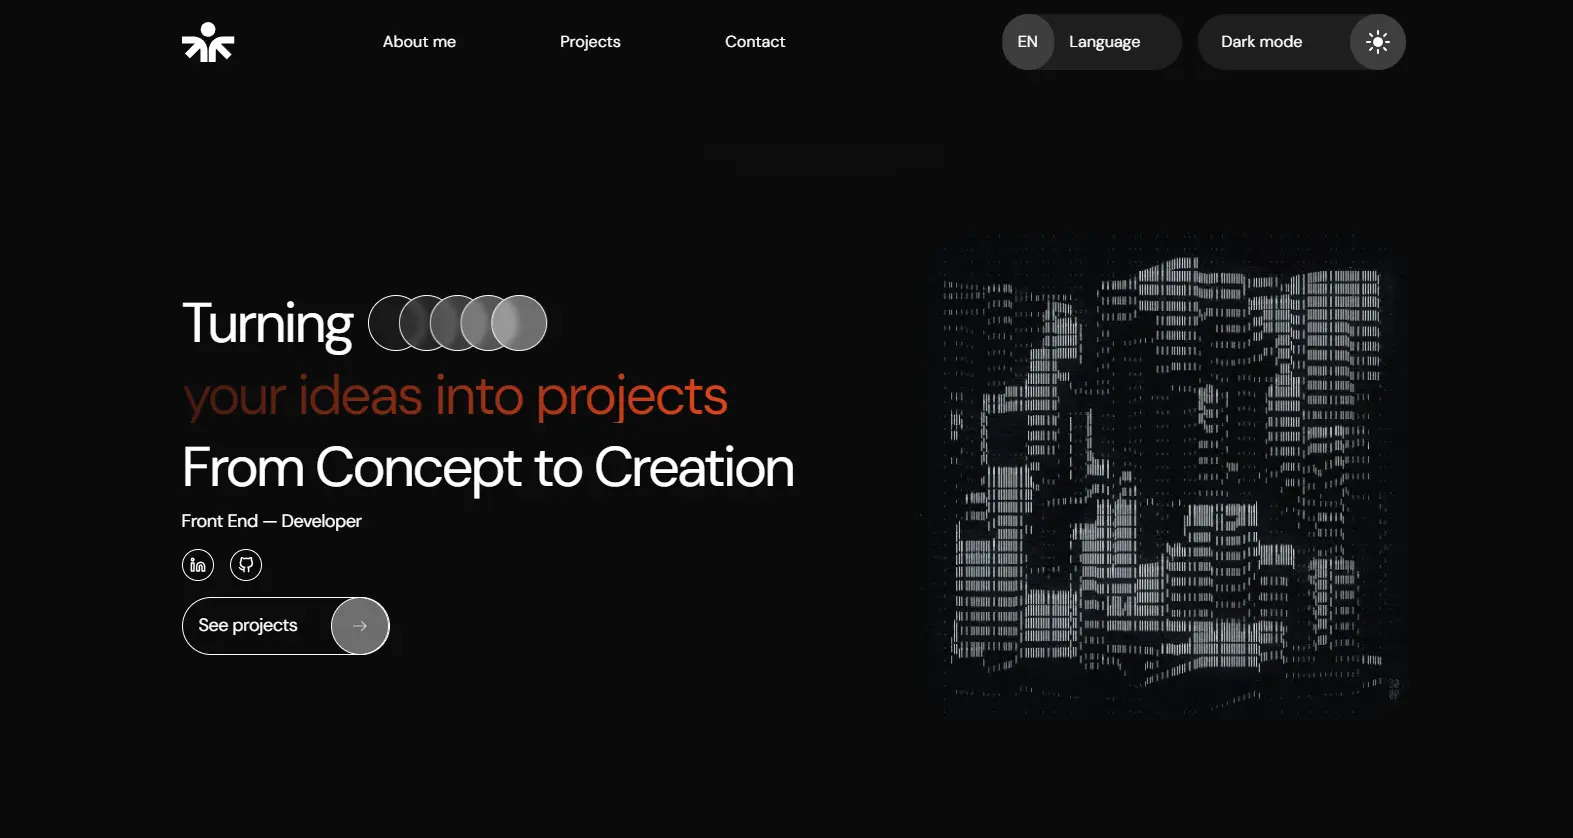
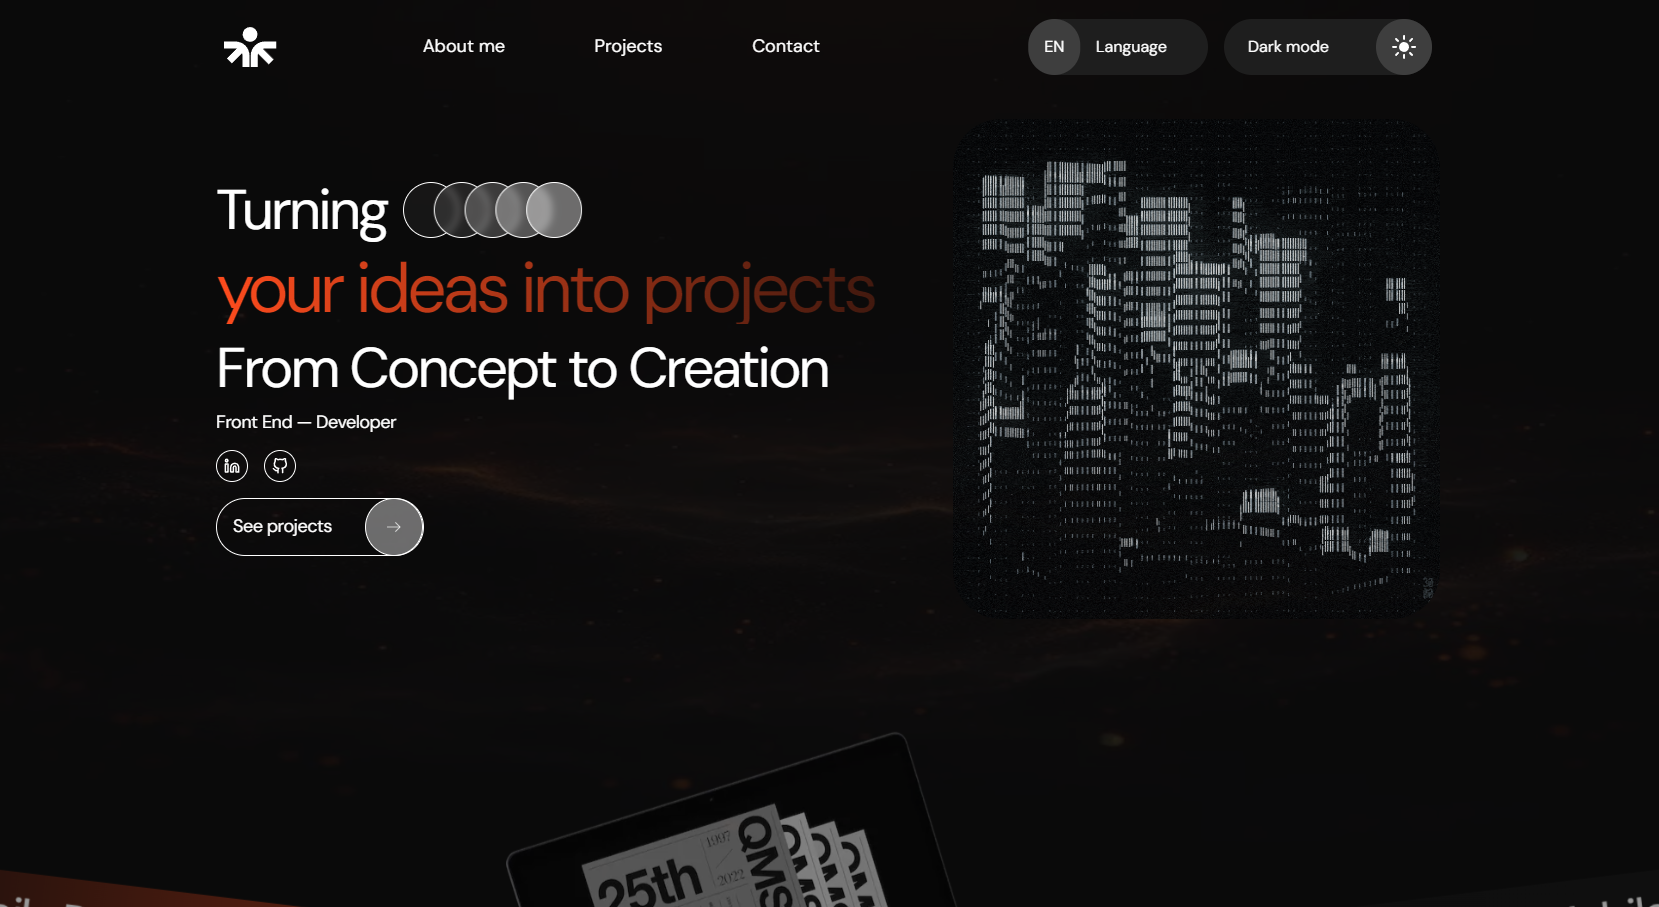
updatess

diff --git a/src/app/components/Branding/Branding.tsx b/src/app/components/Branding/Branding.tsx
@@ -33,7 +33,7 @@ const Branding = () => {
               loading="lazy"
               height={620}
               alt="branding image "
-              className="opacity-0 group-hover:opacity-100 transition duration-500 absolute -bottom-28 -right-20  h-[350px] w-72 object-cover"
+              className="opacity-0 md:group-hover:opacity-100 group-hover:opacity-90 transition duration-500 absolute -bottom-10 md:-bottom-28 right-0 md:-right-20 h-44 w-32 md:h-[350px] md:w-72 object-cover"
             />
           </div>
           <div className="relative">
@@ -51,7 +51,7 @@ const Branding = () => {
               loading="lazy"
               height={440}
               alt="branding image"
-              className="opacity-0 group-hover:opacity-100   transition-all duration-1000 absolute bottom-16 -left-36 h-80 w-56 object-cover"
+              className="opacity-0 md:group-hover:opacity-100 group-hover:opacity-90   transition-all duration-1000 absolute bottom-16 left-0 md:-left-36 h-52 md:h-80 w-40 md:w-56 object-cover"
             />
           </div>
         </div>
@@ -66,7 +66,7 @@ const Branding = () => {
             loading="lazy"
             height={440}
             alt="branding image "
-            className="opacity-0 group-hover:opacity-100    transition-all duration-700 absolute bottom-2 left-24 h-80 w-56 object-cover z-30"
+            className="opacity-0 md:group-hover:opacity-100 group-hover:opacity-90    transition-all duration-700 absolute bottom-2 left-24 h-52 md:h-80 w-40 md:w-56 object-cover z-30"
           />
         </div>
         <div className="relative">
@@ -80,7 +80,7 @@ const Branding = () => {
             loading="lazy"
             height={440}
             alt="branding image "
-            className="opacity-0 group-hover:opacity-100 z-30 transition-all duration-1000 absolute -bottom-2 right-24 h-80 w-56 object-cover"
+            className="opacity-0 md:group-hover:opacity-100 group-hover:opacity-90 z-30 transition-all duration-1000 absolute -bottom-2 right-24 h-52 md:h-80 w-40 md:w-56 object-cover"
           />
         </div>
         <div className="relative">
@@ -94,7 +94,7 @@ const Branding = () => {
             loading="lazy"
             height={440}
             alt="branding image "
-            className="opacity-0 group-hover:opacity-100  z-40  transition-all duration-2000 absolute -bottom-20 -left-24 h-80 w-56 object-cover"
+            className="opacity-0 md:group-hover:opacity-100 group-hover:opacity-90  z-40  transition-all duration-2000 absolute -bottom-20 -left-10 md:-left-24 h-52 md:h-80 w-36 md:w-56 object-cover"
           />
         </div>
         <div className="relative">

diff --git a/src/app/components/Navbar/Navbar.tsx b/src/app/components/Navbar/Navbar.tsx
@@ -1,6 +1,9 @@
 "use client";
 import { LogoIcon } from "@/Icons";
 import { useThemeStore } from "@/store/useThemeStore";
+import { useLenis } from "@studio-freight/react-lenis";
+import clsx from "clsx";
+import { useEffect, useState } from "react";
 import ListItems from "./ListItems";
 import MobileNavbar from "./MobileNavbar";
 import LanguageToggle from "./ToggleLanguage";
@@ -8,11 +11,34 @@ import ThemeToggle from "./ToggleTheme";
 
 const Navbar = () => {
   const theme = useThemeStore((state) => state.theme);
+  const [bgNavbar, setBgNavbar] = useState(false);
+
+  const lenis = useLenis(() => {});
+
+  useEffect(() => {
+    const handleScroll = () => {
+      const scrollPos = lenis?.scroll;
+      if (scrollPos > 100) {
+        setBgNavbar(true);
+      } else {
+        setBgNavbar(false);
+      }
+    };
+
+    lenis?.on("scroll", handleScroll);
+
+    return () => lenis?.off("scroll", handleScroll);
+  }, [lenis]);
 
   return (
     <>
       <MobileNavbar />
-      <nav className="hidden md:flex py-6 max-w-wrapper w-full gap-4">
+      <nav
+        className={clsx(
+          "hidden md:flex p-2 max-w-wrapper rounded-2xl w-full gap-4 transition duration-500",
+          bgNavbar ? "bg-white20 backdrop-blur-sm" : "bg-transparent"
+        )}
+      >
         <div className="flex flex-1 items-center justify-between">
           <a
             href="/"

diff --git a/src/app/page.tsx b/src/app/page.tsx
@@ -4,6 +4,7 @@ import { useGSAP } from "@gsap/react";
 import clsx from "clsx";
 import gsap from "gsap";
 import { ScrollTrigger } from "gsap/ScrollTrigger";
+import Image from "next/image";
 import { useEffect, useState } from "react";
 import { useShallow } from "zustand/react/shallow";
 import {
@@ -60,6 +61,13 @@ export default function Home() {
 
   return (
     <main className="flex w-full min-h-screen flex-col items-center relative gap-12">
+      <Image
+        src={theme === "dark" ? "/images/bg.webp" : "/images/bg-light.webp"}
+        alt="decorative"
+        width={600}
+        height={400}
+        className="fixed h-screen w-screen left-0 top-0 opacity-10 -z-10"
+      />
       <div
         className={clsx(
           "transition-opacity transform duration-2000 h-screen w-screen fixed top-0 z-50",
@@ -74,9 +82,10 @@ export default function Home() {
           isLoading ? "lg:opacity-0" : "opacity-100"
         )}
       >
-        <header className="w-full max-w-mw-container flex justify-center">
+        <header className="w-full max-w-mw-container flex justify-center sticky top-3 z-50">
           <Navbar />
         </header>
+
         <Header />
         <Ribbons />
         <Branding />

diff --git a/tailwind.config.ts b/tailwind.config.ts
@@ -14,6 +14,7 @@ const config: Config = {
       white: "#ffffff",
       blur: "#0C0C0C40",
       white40: "#ffffff66",
+      white20: "#ffffff10",
       current: "currentColor",
       black: "#1B1B1B",
       primaryOrange: "#FC4B1D",
@@ -95,6 +96,7 @@ const config: Config = {
         "gradient-radial": "radial-gradient(var(--tw-gradient-stops))",
         "gradient-conic":
           "conic-gradient(from 180deg at 50% 50%, var(--tw-gradient-stops))",
+        main: "url(/images/bg.webp)",
       },
       animation: {
         "spin-slow": "spin 3s linear infinite",

diff --git a/src/app/globals.css b/src/app/globals.css
@@ -16,7 +16,7 @@ html {
   }
 
   .d2 {
-    @apply text-[60px] tracking-tight leading-none;
+    @apply text-[70px] tracking-tight leading-none;
   }
 
   .d3 {
@@ -323,4 +323,20 @@ html.lenis {
 
 .lenis.lenis-scrolling iframe {
   pointer-events: none;
+}
+
+@media (min-width: 1025px) {
+  .header-figure {
+    animation: scrolling 15s linear;
+    animation-timeline: scroll();
+    transform: translateY(0%);
+    animation-range: exit 0% exit 60%;
+  }
+}
+
+@keyframes scrolling {
+  to {
+    transform: translateY(1000%) translateX(-100%);
+    scale: 1.5;
+  }
 }

diff --git a/src/app/components/Header/Header.tsx b/src/app/components/Header/Header.tsx
@@ -32,7 +32,7 @@ const Header = () => {
           </h2>
           <Circles />
         </div>
-        <h2 className="h2 md:h1 animated-gradient-text text-primary dark:text-primaryOrange text-center md:text-left">
+        <h2 className="h2 md:d2 animated-gradient-text text-primary dark:text-primaryOrange text-center md:text-left">
           {isSpanish ? headerLabelSpanish : headerLabelEnglish}
         </h2>
         {isMobile && (
